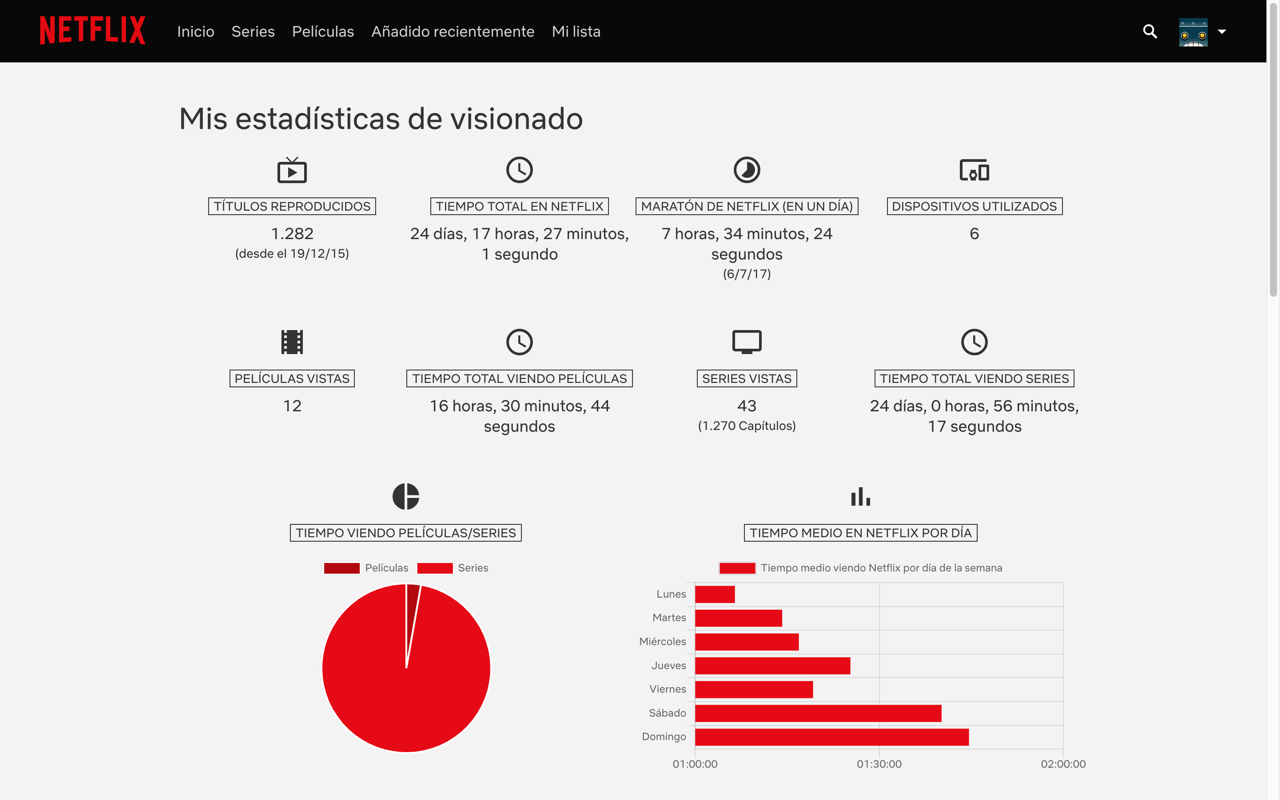
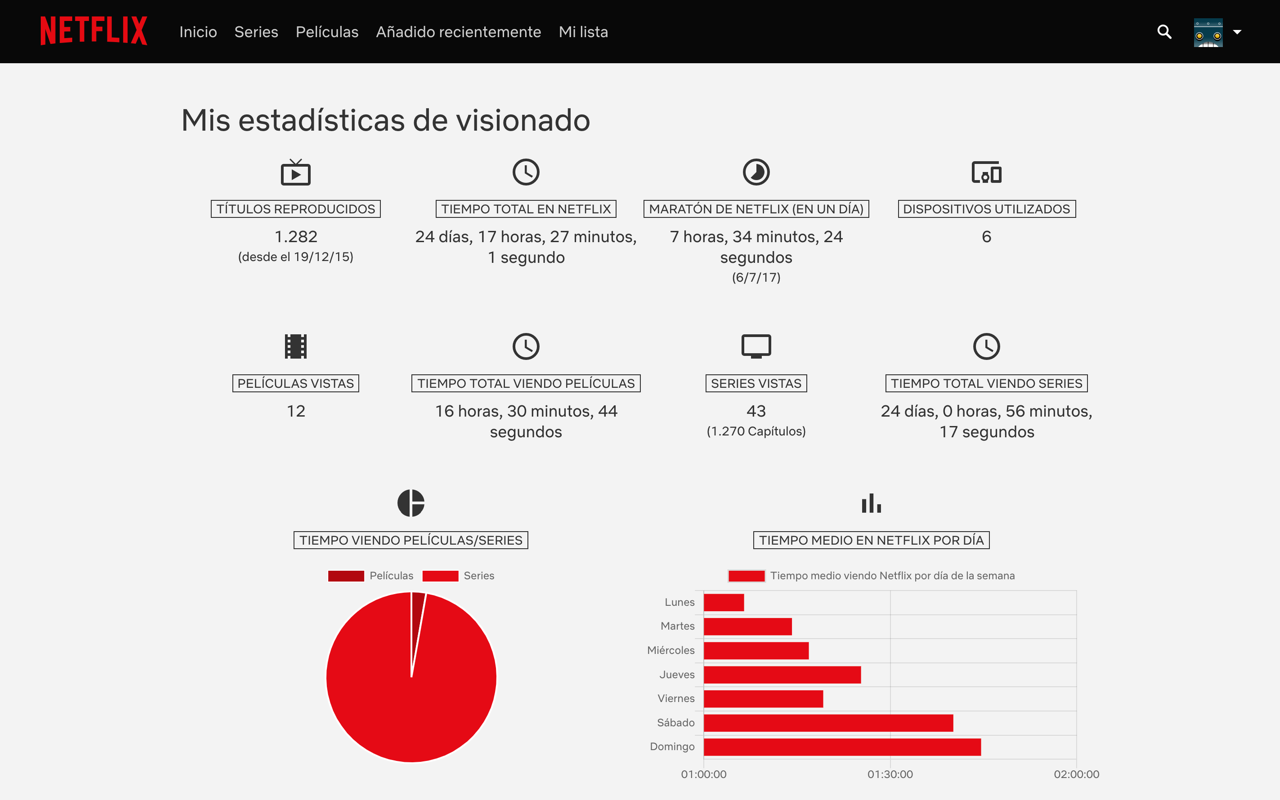
Changes for first release available on Chrome Web Store

diff --git a/RELEASE_NOTES.md b/RELEASE_NOTES.md
@@ -9,6 +9,7 @@ List out, as concretely as possible, any steps users have to take when they upgr
 Write pseudocode that highlights what code should change and how.
 Call out if users are recommended to upgrade because of known problems with older releases.
 Preferably, there's nothing here.
+
 Breaking Changes
 A complete list of breaking changes (preferably there are none, unless this is a major version).
 
@@ -24,17 +25,15 @@ Improvements/enhancements to a workflow, performance, logging, error messaging, 
 Other Changes
 Other miscellaneous changes that don't fit into any of the above categories. Try to leave this empty - ideally, all changes fit into the categories above
 
+## 1.0.0
+
+### Other Changes
+
+- First release available on [Chrome Web Store](https://chrome.google.com/webstore/devconsole/g09324318338317648806/bckfpnenhimfckndcceonmkhheinmkob)
+- Added screenshots
+- Changed some translations
+
 ## 0.5.1
-
-### Upgrade Steps
-
-### Breaking Changes
-
-### New Features
-
-### Bug Fixes
-
-### Improvements
 
 ### Other Changes
 
@@ -43,16 +42,10 @@ Other miscellaneous changes that don't fit into any of the above categories. Try
 
 ## 0.5.0
 
-### Upgrade Steps
-
-### Breaking Changes
-
 ### New Features
 
 - Hours, minutes and seconds are now shown on date column of data table
 - Changed percentage of total time on Netflix chart by average time on Netflix per day of the week
-
-### Bug Fixes
 
 ### Improvements
 
@@ -66,13 +59,7 @@ Other miscellaneous changes that don't fit into any of the above categories. Try
 - Improved responsiveness of page
 - Added MIT license and improved README
 
-### Other Changes
-
 ## 0.4.0
-
-### Upgrade Steps
-
-### Breaking Changes
 
 ### New Features
 
@@ -83,40 +70,22 @@ Other miscellaneous changes that don't fit into any of the above categories. Try
 - Fixed incorrect count of movies
 - Added label to time watching movies vs series chart
 
-### Improvements
-
 ### Other Changes
 
 - Reorganized vendor files in folders
 
 ## 0.3.1
 
-### Upgrade Steps
-
-### Breaking Changes
-
-### New Features
-
 ### Bug Fixes
 
 - Fixed incorrect first use date by sorting fetched activity data
 
-### Improvements
-
-### Other Changes
-
 ## 0.3.0
-
-### Upgrade Steps
-
-### Breaking Changes
 
 ### New Features
 
 - Added first Netflix use below total watched elements
 - Added loading message to warn it can take some time to load the hole activity data
-
-### Bug Fixes
 
 ### Improvements
 
@@ -133,14 +102,10 @@ Other miscellaneous changes that don't fit into any of the above categories. Try
 
 - Folder name has been renamed to 'netflix-usage-stats' so when upgrading from 0.1.0 version you should remove extension and load again the unpacked extension from this new folder
 
-### Breaking Changes
-
 ### New Features
 
 - Formatted numbers adding thousands separator
 - Added years to time calculations
-
-### Bug Fixes
 
 ### Improvements
 
@@ -153,10 +118,6 @@ Other miscellaneous changes that don't fit into any of the above categories. Try
 - Added new logo
 
 ## 0.1.0
-
-### Upgrade Steps
-
-### Breaking Changes
 
 ### New Features
 
@@ -171,9 +132,3 @@ Other miscellaneous changes that don't fit into any of the above categories. Try
   - Time watching series
   - Time watching movies vs time watching series (in a pie chart)
   - Percentage of time watching Netflix by day of the week (in a bar chart)
-
-### Bug Fixes
-
-### Improvements
-
-### Other Changes

diff --git a/README.md b/README.md
@@ -2,10 +2,23 @@
 
 <p style="text-align:center" align="center">
   <img src="./netflix-usage-stats/images/logo48.png" alt="logo">
+
+  <h3 align="center">Netflix Viewing Activity</h3>
+
+  <p align="center">
+    Shows Netflix viewing stats dashboard to know more about how you spend your time on Netflix.
+    <br>
+    <a href="https://chrome.google.com/webstore/detail/bckfpnenhimfckndcceonmkhheinmkob?utm_source=github"><strong>Install for Google Chrome &raquo;</strong></a>
+  </p>
 </p>
 
-This Chrome extension helps you to know more about your Netflix viewing statistics.
-This extension allows you to access to a viewing stats page fully integrated in Netflix site which loads viewing activity from Netflix Shakti API and calculate a set of statistics about how you use your Netflix account.
+<p align="center">
+  <a href="https://chrome.google.com/webstore/detail/bckfpnenhimfckndcceonmkhheinmkob?utm_source=github_badge"><img alt="Chrome Web Store" src="https://img.shields.io/chrome-web-store/v/bckfpnenhimfckndcceonmkhheinmkob"></a>
+  <a href="https://github.com/hmartos/netflix-usage-stats/blob/master/LICENSE"><img alt="License" src="https://img.shields.io/github/license/hmartos/netflix-usage-stats"></a>
+  
+</p>
+
+This Chrome extension allows you to access to a viewing stats page fully integrated on Netflix site which loads viewing activity from Netflix Shakti API and calculate a set of statistics about how you use your Netflix account.
 
 ![Screenshot](./screenshot-full-en.png)
 
